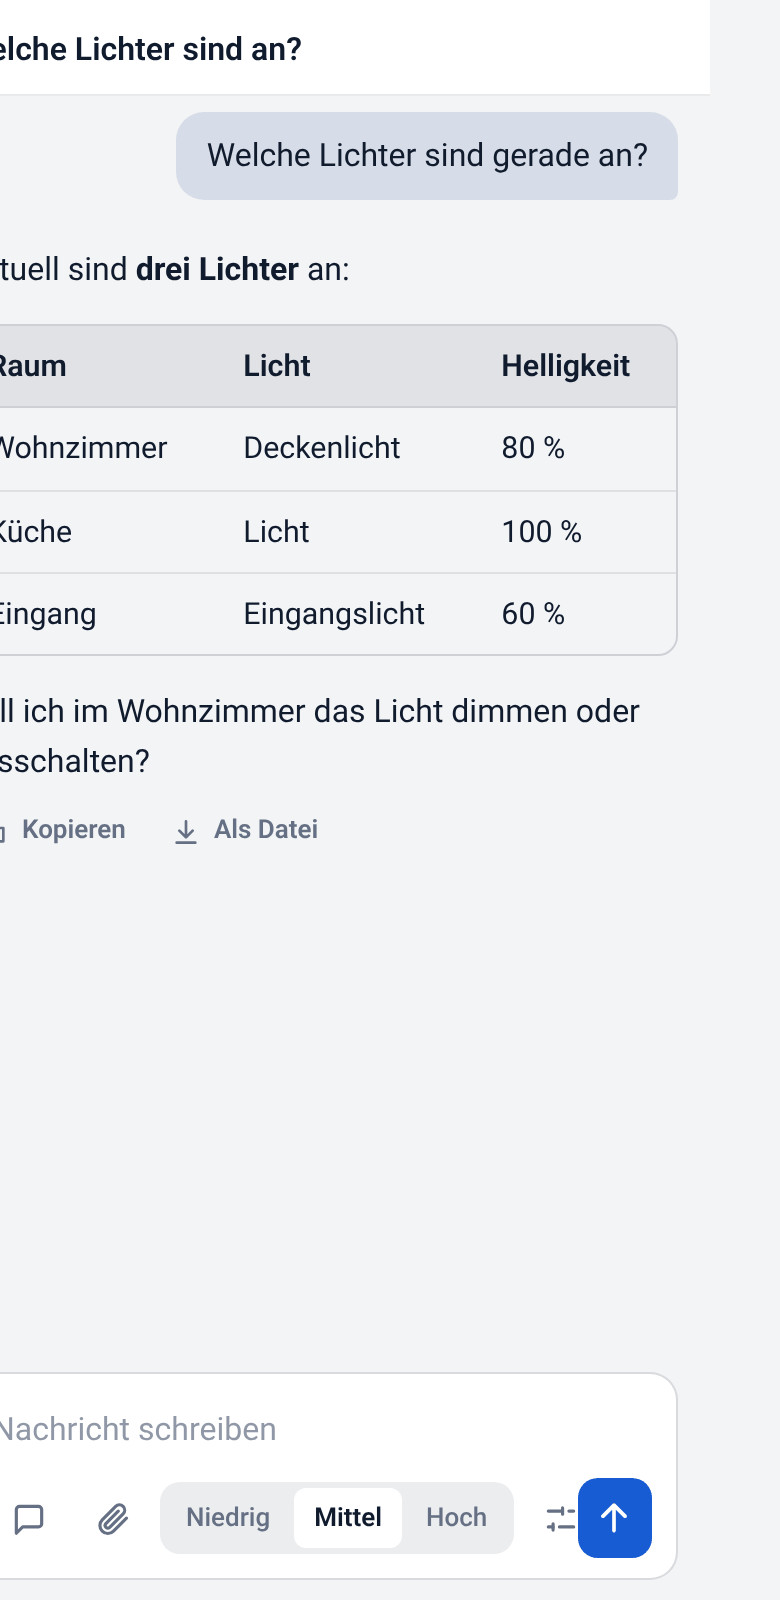
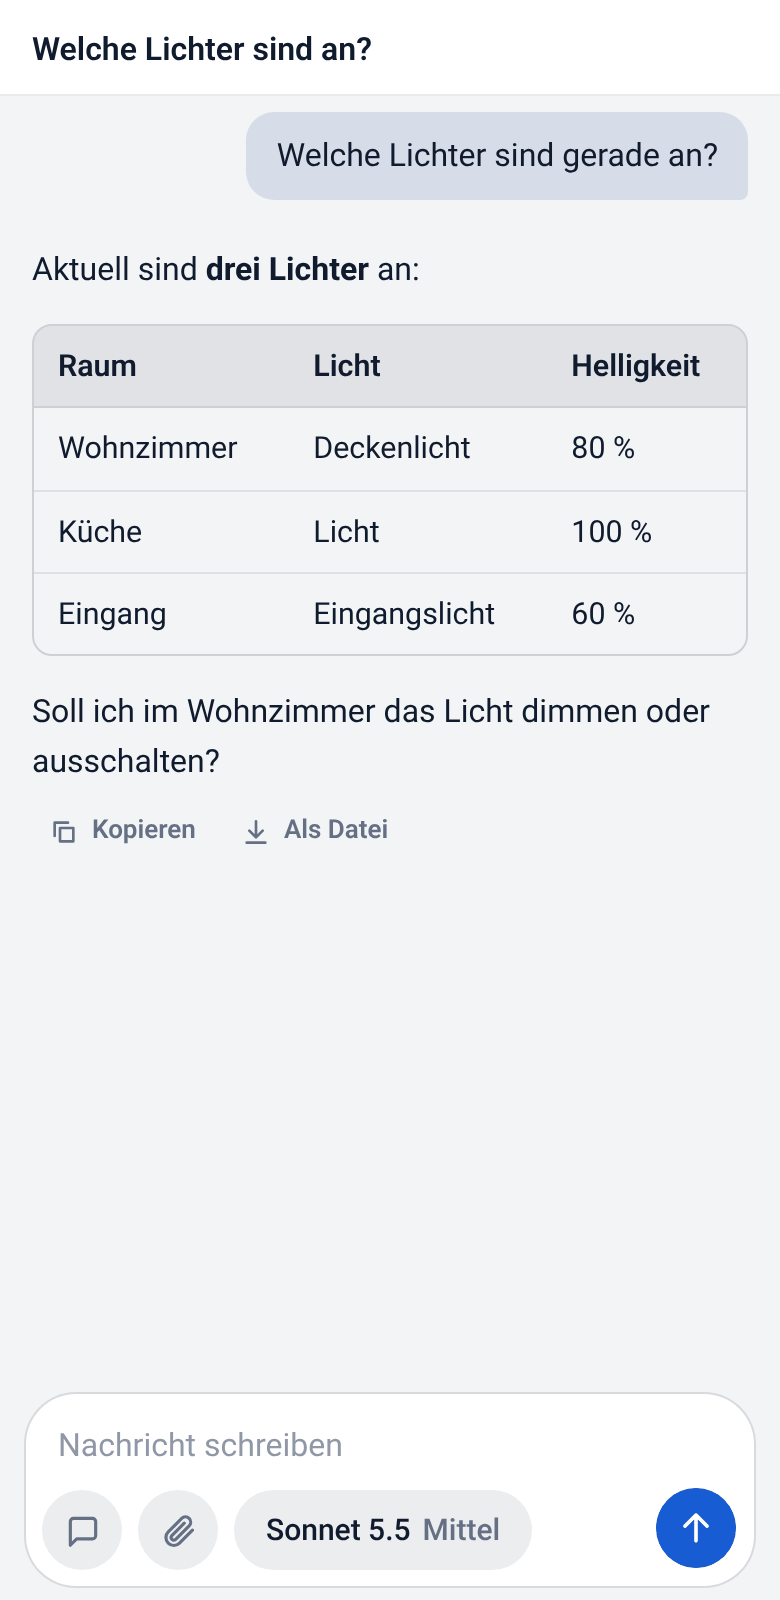
Doku: Screenshots für 0.27.5 neu, zwei Aufnahmen mit eigenem Theme (DORALAB)
Claude-Session: https://claude.ai/code/session_012H4RFtPYg4WGjcVxpmDwqL

diff --git a/tools/screenshots/capture_theme.py b/tools/screenshots/capture_theme.py
@@ -1,0 +1,30 @@
+"""Aufnahmen mit dem DORALAB-Theme (ha_config/themes/doralab.yaml) statt dem Standard-Theme von Home Assistant.
+
+Setzt das Theme über den Dienst frontend.set_theme für die Dauer der Aufnahme und stellt danach den Standard wieder her.
+"""
+import json, os, sys, urllib.request
+exec(open(os.path.join(os.path.dirname(__file__), "capture_ha.py")).read().split("with sync_playwright() as p:")[0])
+
+def theme(name):
+    body = {"name": name} if name else {"name": "default"}
+    r = urllib.request.Request(HA + "/api/services/frontend/set_theme", method="POST", data=json.dumps(body).encode(),
+                               headers={"Authorization": "Bearer " + tok["access_token"], "Content-Type": "application/json"})
+    urllib.request.urlopen(r).read()
+
+theme("DORALAB")
+try:
+    with sync_playwright() as p:
+        b = p.chromium.launch()
+        for scheme in ("light", "dark"):
+            suffix = "" if scheme == "light" else "-dunkel"
+            c = ctx(b, 1440, 860, scheme); pg = c.new_page()
+            pg.goto(HA + "/ha-copilot-panel"); pg.wait_for_timeout(5000)
+            fr = pg.frame_locator("iframe")
+            fr.locator(".project-row", has_text="Haus").first.click(); pg.wait_for_timeout(400)
+            fr.locator(".row.chat-item", has_text="Lichter").first.click(); pg.mouse.move(1000, 400); pg.wait_for_timeout(1500)
+            pg.screenshot(path=f"{OUT}/ha-copilot-doralab{suffix}.png")
+            c.close()
+        b.close()
+finally:
+    theme(None)
+print("ok")

diff --git a/tools/screenshots/capture_ha.py b/tools/screenshots/capture_ha.py
@@ -40,7 +40,7 @@ with sync_playwright() as p:
         pg.goto(HA + "/ha-copilot-panel"); pg.wait_for_timeout(5000)
         fr = pg.frame_locator("iframe")
         try:
-            fr.locator(".project-row", has_text="Haus").first.click(); pg.wait_for_timeout(400); fr.locator(".row.chat-item", has_text="Lichter").first.click(); pg.wait_for_timeout(1500)
+            fr.locator(".project-row", has_text="Haus").first.click(); pg.wait_for_timeout(400); fr.locator(".row.chat-item", has_text="Lichter").first.click(); pg.mouse.move(1000, 400); pg.wait_for_timeout(1500)
         except Exception as e:
             print("click chat failed", e)
         pg.screenshot(path=f"{OUT}/ha-copilot-im-panel{suffix}.png")

diff --git a/tools/screenshots/capture_app.py b/tools/screenshots/capture_app.py
@@ -4,7 +4,7 @@ OUT = sys.argv[1]
 DEMO_ID = "0123456789abcdef0123456789abcdef"; H = {"X-Remote-User-Id": DEMO_ID}
 def open_chat(pg, project, chat):
     pg.locator(".project-row", has_text=project).first.click(); pg.wait_for_timeout(300)
-    pg.locator(".row.chat-item", has_text=chat).first.click(); pg.wait_for_timeout(1200)
+    pg.locator(".row.chat-item", has_text=chat).first.click(); pg.mouse.move(900, 400); pg.wait_for_timeout(1200)
 with sync_playwright() as p:
     b = p.chromium.launch()
     for scheme, name in (("light", "chat-hell"), ("dark", "chat-dunkel")):

diff --git a/tools/screenshots/README.md b/tools/screenshots/README.md
@@ -24,7 +24,10 @@ export SHOT_WORK=work
 python tools/screenshots/capture_ha.py docs/screenshots        # Seitenleiste, Dashboard, Chat in Home Assistant
 python tools/screenshots/capture_features.py docs/screenshots  # Einrichtungsprüfung, Suche, Geplant, Gedächtnis, Menü
 python tools/screenshots/capture_app.py docs/screenshots       # Chat allein, Handy, Englisch
+python tools/screenshots/capture_theme.py docs/screenshots     # dasselbe mit dem eigenen Theme DORALAB, hell und dunkel
 ```
+
+Das Theme „DORALAB“ liegt als `ha_config/themes/doralab.yaml` (nur Farben, kein Logo). `capture_theme.py` schaltet es für die Aufnahme mit dem Dienst `frontend.set_theme` ein und danach wieder aus. `capture_features.py` erzeugt zusätzlich Handy-Bilder von Home Assistant (`ha-handy-*.png`), die nicht in der Dokumentation verwendet werden.
 
 Die Bilder werden danach auf 256 Farben verkleinert (Pillow, `optimize=True`), das hält das Repository klein.
 

diff --git a/docs/funktionen.md b/docs/funktionen.md
@@ -103,6 +103,12 @@ Mehr: [Geplante Aufgaben](../ki_chat/DOCS.md#geplante-aufgaben-ab-0210).
 |---|---|---|
 | ![Seitenleiste und Dashboard, dunkel](screenshots/ha-seitenleiste-dashboard-dunkel.png) | ![Chat, hell](screenshots/chat-hell.png) | ![Chat, dunkel](screenshots/chat-dunkel.png) |
 
+Mit einem eigenen Home-Assistant-Theme (hier „DORALAB“, nur Farben) übernimmt die App Akzent, Flächen und Schrift live, hell und dunkel:
+
+| Eigenes Theme, hell | Eigenes Theme, dunkel |
+|---|---|
+| ![HA Copilot mit eigenem Theme, hell](screenshots/ha-copilot-doralab.png) | ![HA Copilot mit eigenem Theme, dunkel](screenshots/ha-copilot-doralab-dunkel.png) |
+
 Englische Oberfläche (`language: en`):
 
 ![Englische Oberfläche](screenshots/chat-en.png)

diff --git a/docs/screenshots/README.md b/docs/screenshots/README.md
@@ -6,6 +6,7 @@ Alle Bilder zeigen eine Test-Instanz von Home Assistant mit Demo-Geräten und di
 |---|---|
 | `ha-seitenleiste-dashboard.png`, `…-dunkel.png` | Seitenleiste von Home Assistant mit dem Eintrag „HA Copilot“ und einem Platzhalter-Dashboard |
 | `ha-copilot-im-panel.png`, `…-dunkel.png` | HA Copilot im Home-Assistant-Rahmen, mit dem Theme von Home Assistant |
+| `ha-copilot-doralab.png`, `…-dunkel.png` | Dasselbe mit einem eigenen Theme („DORALAB“, nur Farben) statt dem Standard-Theme von Home Assistant |
 | `einrichtungspruefung.png` | Einrichtungsprüfung im Konto-Menü |
 | `suche.png` | Suche über alle eigenen Chats |
 | `geplant.png` | Geplante Aufgaben |
